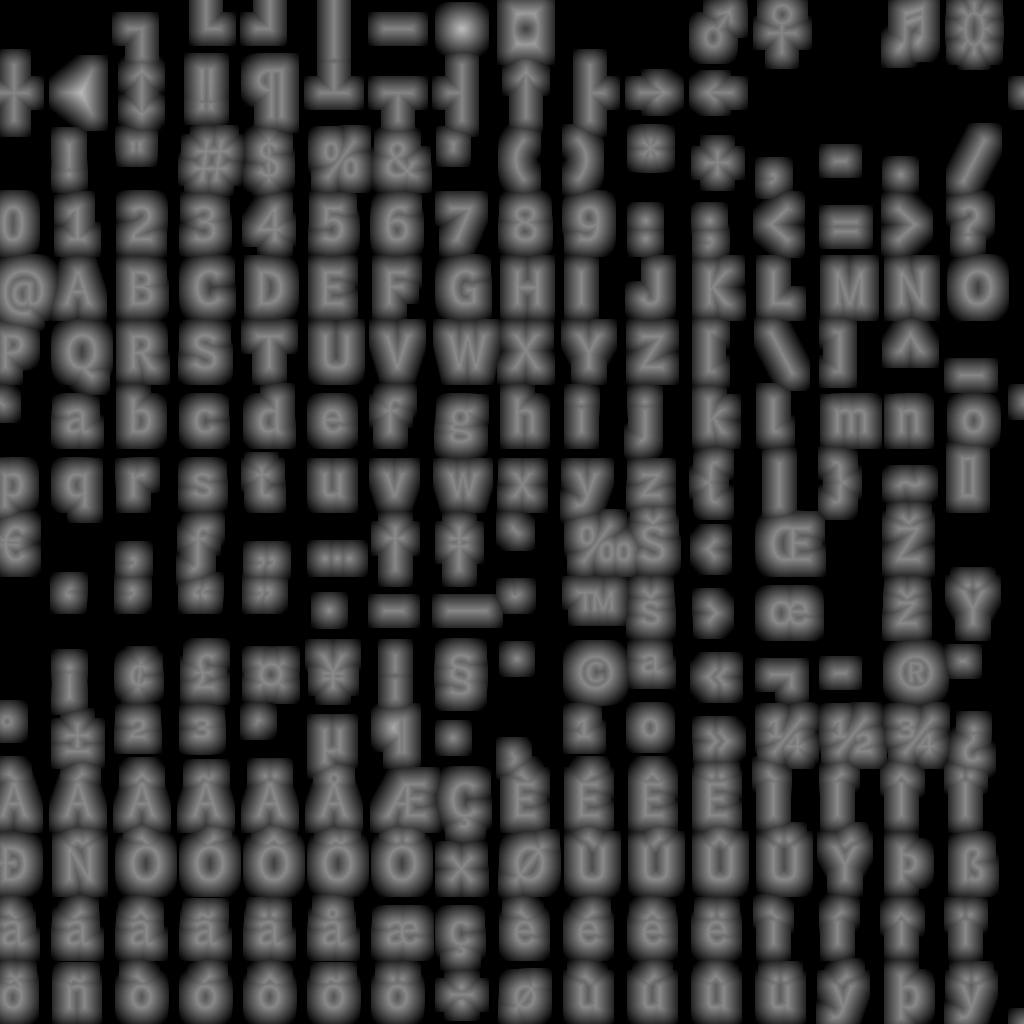
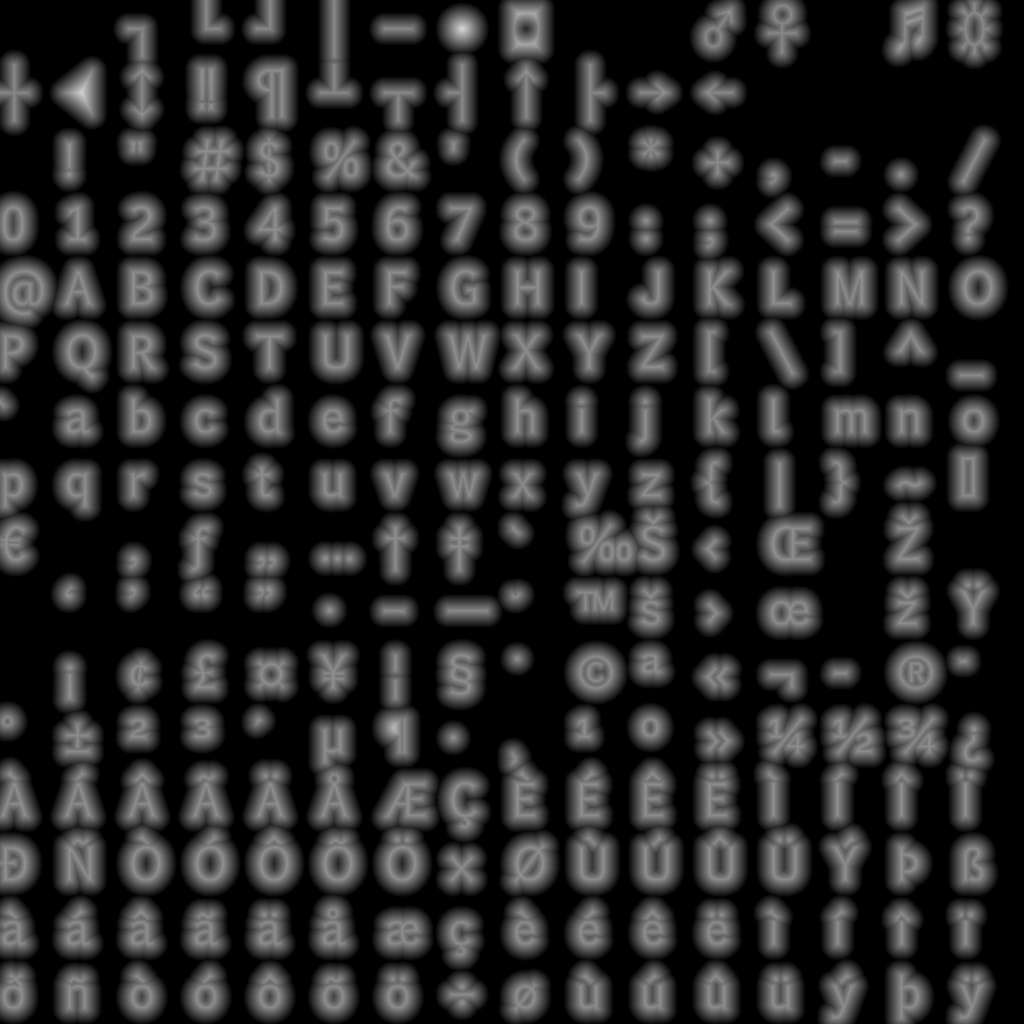
Fixed semantic error in conversion

Changed region(s): [[0.0, 0.0, 1.0, 1.0], [0.8438, 0.0, 0.9375, 0.0625], [0.9688, 0.5625, 1.0, 0.5938]]

diff --git a/Generator/src/sdf.cpp b/Generator/src/sdf.cpp
@@ -29,7 +29,7 @@ Source::Source(const char* filename, bool(*isInside)(int)) {
 
 	for (unsigned y = 0; y < height; y++)
 		for (unsigned x = 0; x < width; x++)
-			inside[y*width + x] = isInside(*(int*)&data[4*y*width + 4*x + 3]);
+			inside[y*width + x] = isInside(*(int*)&data[4*y*width + 4*x]);
 }
 
 Source::~Source() {
@@ -46,7 +46,7 @@ float Source::calcDistance(float u, float v, float range) const {
 	int ymax = min(yc + r, int(height));
 
 	bool in = inside[yc*width + xc];
-	int dist = 2 * r * r;
+	int dist = r * r;
 	for (int x = xmin; x < xmax; x++) {
 		for (int y = ymin; y < ymax; y++) {
 			if (x == xc && y == yc) continue;
@@ -59,7 +59,7 @@ float Source::calcDistance(float u, float v, float range) const {
 		}
 	}
 
-	float val = sqrtf(float(dist) / float(2*r*r));
+	float val = sqrtf(float(dist) / float(r * r));
 	if (!in) val = -val;
 	return (val + 1.0f) / 2.0f;
 }
